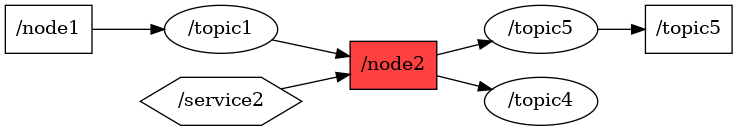
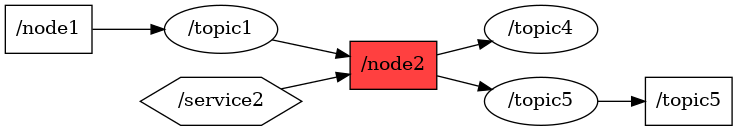
Update examples

diff --git a/example/rosnodelist/out/nodes/n__node2.html b/example/rosnodelist/out/nodes/n__node2.html
@@ -39,10 +39,10 @@ Project is distributed under the BSD 3-Clause license.
 <map id="n_/node2" name="n_/node2">
 <area shape="rect" id="node1" href="n__node1.html" title="node: /node1" alt="" coords="5,5,92,53"/>
 <area shape="poly" id="node3" href="t__topic1.html" title="node: /topic1" alt="" coords="277,29,275,22,267,15,254,10,238,7,221,5,204,7,188,10,175,15,167,22,165,29,167,37,175,43,188,49,204,52,221,53,238,52,254,49,267,43,275,37"/>
-<area shape="rect" id="node2" href="n__topic5.html" title="node: /topic5" alt="" coords="645,5,732,53"/>
-<area shape="rect" id="node5" href="n__node2.html" title="node: /node2" alt="" coords="350,41,437,89"/>
-<area shape="poly" id="node4" href="t__topic5.html" title="node: /topic5" alt="" coords="597,29,595,22,587,15,574,10,559,7,541,5,524,7,508,10,496,15,488,22,485,29,488,37,496,43,508,49,524,52,541,53,559,52,574,49,587,43,595,37"/>
-<area shape="poly" id="node6" href="t__topic4.html" title="node: /topic4" alt="" coords="597,101,595,94,587,87,574,82,559,79,541,77,524,79,508,82,496,87,488,94,485,101,488,109,496,115,508,121,524,124,541,125,559,124,574,121,587,115,595,109"/>
+<area shape="rect" id="node2" href="n__topic5.html" title="node: /topic5" alt="" coords="645,77,732,125"/>
+<area shape="rect" id="node4" href="n__node2.html" title="node: /node2" alt="" coords="350,41,437,89"/>
+<area shape="poly" id="node5" href="t__topic4.html" title="node: /topic4" alt="" coords="597,29,595,22,587,15,574,10,559,7,541,5,524,7,508,10,496,15,488,22,485,29,488,37,496,43,508,49,524,52,541,53,559,52,574,49,587,43,595,37"/>
+<area shape="poly" id="node6" href="t__topic5.html" title="node: /topic5" alt="" coords="597,101,595,94,587,87,574,82,559,79,541,77,524,79,508,82,496,87,488,94,485,101,488,109,496,115,508,121,524,124,541,125,559,124,574,121,587,115,595,109"/>
 <area shape="poly" id="node7" href="s__service2.html" title="node: /service2" alt="" coords="302,101,262,77,181,77,140,101,181,125,262,125"/>
 </map>
 

diff --git a/example/rosnodelist/out/nodes/t__topic5.html b/example/rosnodelist/out/nodes/t__topic5.html
@@ -37,14 +37,14 @@ Project is distributed under the BSD 3-Clause license.
     <div class="center_content">
         <img src="t__topic5.png" alt="node /topic5" usemap="#t_/topic5">
 <map id="t_/topic5" name="t_/topic5">
-<area shape="poly" id="node1" href="t__topic5.html" title="node: /topic5" alt="" coords="253,29,250,22,242,15,229,10,214,7,196,5,179,7,163,10,151,15,143,22,140,29,143,37,151,43,163,49,179,52,196,53,214,52,229,49,242,43,250,37"/>
-<area shape="rect" id="node2" href="n__topic5.html" title="node: /topic5" alt="" coords="301,5,387,53"/>
-<area shape="rect" id="node3" href="n__node2.html" title="node: /node2" alt="" coords="5,5,92,53"/>
+<area shape="rect" id="node1" href="n__node2.html" title="node: /node2" alt="" coords="5,5,92,53"/>
+<area shape="poly" id="node2" href="t__topic5.html" title="node: /topic5" alt="" coords="253,29,250,22,242,15,229,10,214,7,196,5,179,7,163,10,151,15,143,22,140,29,143,37,151,43,163,49,179,52,196,53,214,52,229,49,242,43,250,37"/>
+<area shape="rect" id="node3" href="n__topic5.html" title="node: /topic5" alt="" coords="301,5,387,53"/>
 </map>
 
     </div>
     <div class="info_content">
-Message: <code>xxx2</code>
+Message: <code>xxx3</code>
 
     </div>
     <div class="bottom_content">

diff --git a/example/rosnodelist/out/full_graph.html b/example/rosnodelist/out/full_graph.html
@@ -38,9 +38,9 @@ Main graph
 <map id="full_graph" name="full_graph">
 <area shape="rect" id="node1" href="nodes/n__node1.html" title="node: /node1
 1 services" alt="" coords="5,5,124,56"/>
-<area shape="rect" id="node3" href="nodes/n__node2.html" title="node: /node2
+<area shape="rect" id="node2" href="nodes/n__node2.html" title="node: /node2
 1 services" alt="" coords="185,5,304,56"/>
-<area shape="rect" id="node2" href="nodes/n__topic5.html" title="node: /topic5
+<area shape="rect" id="node3" href="nodes/n__topic5.html" title="node: /topic5
 1 services" alt="" coords="365,5,484,56"/>
 </map>
 
